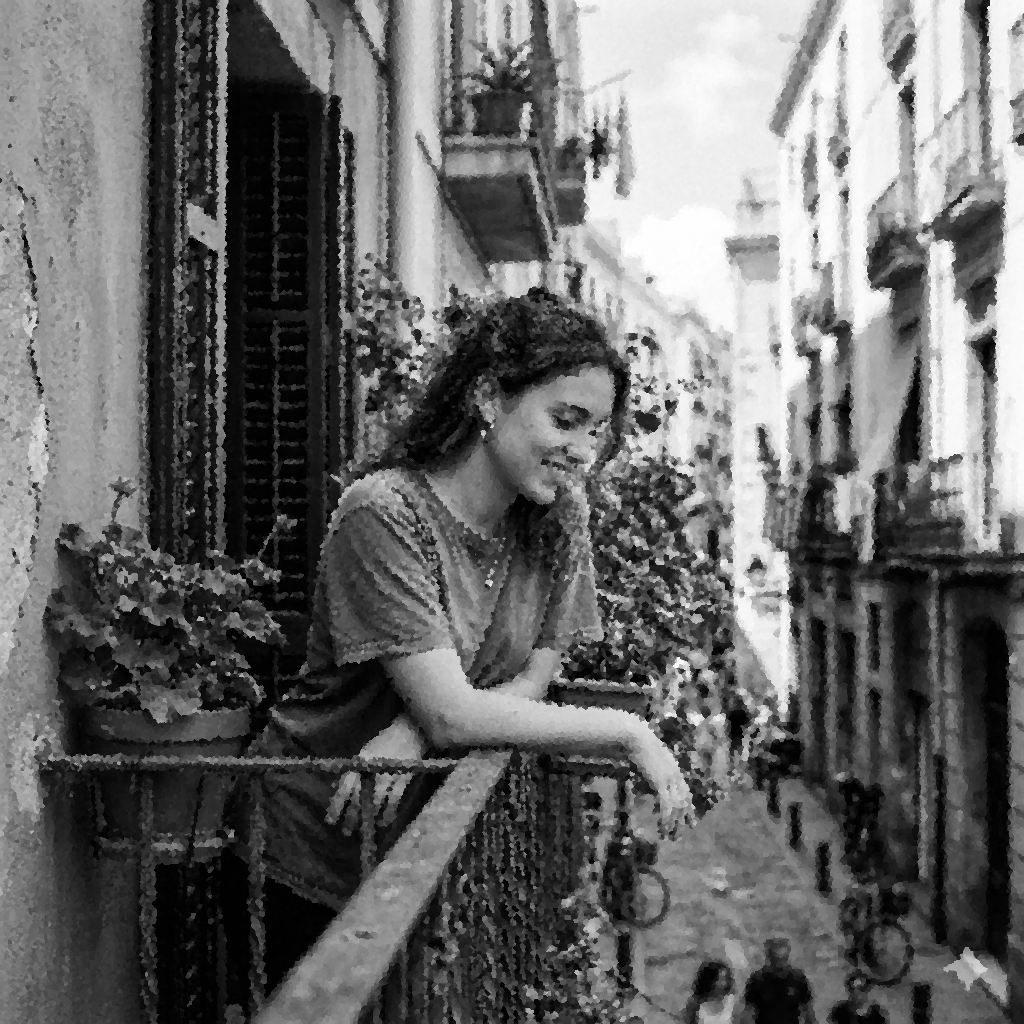
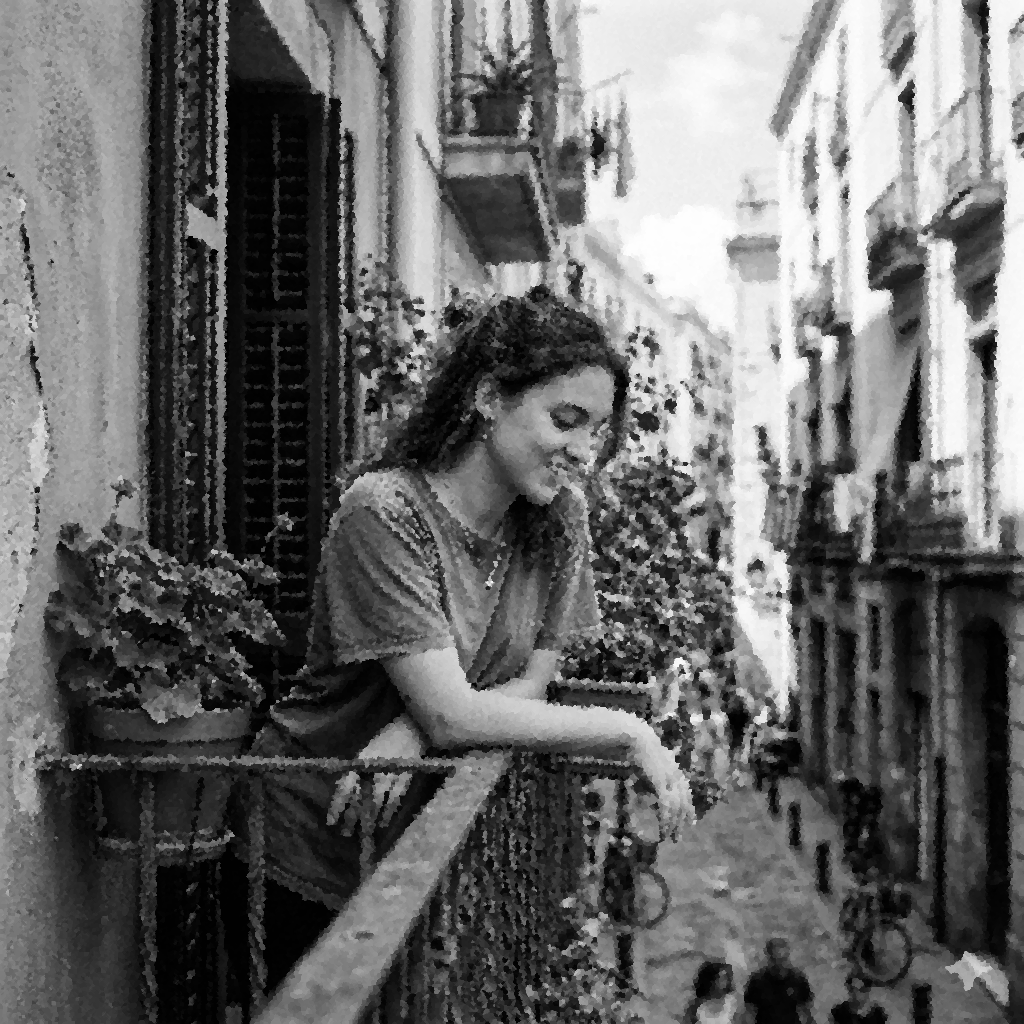
편차필터 PSNR : 23.23 SSIM : 0.7204 그룹필터 PSMR : 23.66 SSIM : 0.7381

diff --git a/Filtering_Methods.py b/Filtering_Methods.py
@@ -76,8 +76,8 @@ def median_filter(A):
 
     return img_filt.astype(np.uint8)
 
-def custom_corner_filter(A):
-    print("\n[알림] 제안 필터 1: 4방향 코너 그룹 분산 최소화 중간값 필터를 시작합니다...")
+def deviation_filter(A):
+    print("\n[알림] 제안 필터 1: 편차 필터(Deviation Filter)를 시작합니다...")
     m, n = A.shape
     img_filt = A.copy()
     route_count = 0
@@ -87,10 +87,10 @@ def custom_corner_filter(A):
         noise_mask = (img_filt == 0) | (img_filt == 255)
         
         if not np.any(noise_mask):
-            print(f"[Filter 1] 모든 노이즈 제거 완료. (총 가동된 루트 수: {route_count - 1})")
+            print(f"[Deviation Filter] 모든 노이즈 제거 완료. (총 가동된 루트 수: {route_count - 1})")
             break
             
-        print(f"[Filter 1] 진행 중: {route_count}번째 탐색 시작", flush=True)
+        print(f"[Deviation Filter] 진행 중: {route_count}번째 탐색 시작", flush=True)
         P = np.pad(img_filt, 1, mode='edge')
         windows = np.lib.stride_tricks.sliding_window_view(P, (3, 3)).reshape(m, n, 9)
         
@@ -101,81 +101,127 @@ def custom_corner_filter(A):
         groups[:, :, 2, :] = windows[:, :, [3, 6, 7]] # 좌하단 {4, 7, 8}
         groups[:, :, 3, :] = windows[:, :, [5, 7, 8]] # 우하단 {6, 8, 9}
         
-        sorted_groups = np.sort(groups, axis=3)
-        A_vals = sorted_groups[:, :, :, 0].astype(np.int32)
-        C_vals = sorted_groups[:, :, :, 2].astype(np.int32)
-        B_vals = sorted_groups[:, :, :, 1]
+        # 유효(정상) 픽셀 마스크
+        valid_mask = (groups > 0) & (groups < 255)
+        n_valid = np.sum(valid_mask, axis=3) # (M, N, 4)
         
-        # 편차 계산 (|A - C|와 완전히 동일함)
-        diffs = C_vals - A_vals
-        best_group_idx = np.argmin(diffs, axis=2)
+        # 노이즈를 NaN으로 치환하여 편차 계산
+        groups_float = groups.astype(np.float32)
+        groups_float[~valid_mask] = np.nan
+        
+        with np.errstate(all='ignore'):
+            g_max = np.nanmax(groups_float, axis=3)
+            g_min = np.nanmin(groups_float, axis=3)
+            # 노이즈가 없는 정상 픽셀들 사이의 편차 (C - A 와 동일)
+            variance = g_max - g_min 
+            
+        # 정상 픽셀이 0개인 그룹은 편차가 999 (최악의 점수)
+        variance = np.nan_to_num(variance, nan=999)
+        
+        # 페널티: 정상 픽셀 1개당 -1000점 (정상픽셀 수가 절대적 우선순위)
+        penalty = -n_valid * 1000 + variance
+        
+        best_group_idx = np.argmin(penalty, axis=2)
         
         idx_m, idx_n = np.indices((m, n))
-        best_medians = B_vals[idx_m, idx_n, best_group_idx]
+        best_groups = groups_float[idx_m, idx_n, best_group_idx]
+        
+        with np.errstate(all='ignore'):
+            best_medians = np.nanmedian(best_groups, axis=2)
+            
+        # 정상 픽셀 중앙값이 존재하는 경우만 업데이트
+        valid_medians_mask = ~np.isnan(best_medians)
+        update_mask = noise_mask & valid_medians_mask
         
         prev_img = img_filt.copy()
-        img_filt[noise_mask] = best_medians[noise_mask]
+        img_filt[update_mask] = best_medians[update_mask].astype(np.uint8)
         
         if np.array_equal(prev_img, img_filt) or route_count >= 30:
-            print(f"[Filter 1] 알림: 더 이상 변화가 없거나 최대 루프에 도달하여 {route_count}루트에서 종료합니다.")
+            print(f"[Deviation Filter] 알림: 더 이상 변화가 없거나 최대 루프에 도달하여 {route_count}루트에서 종료합니다.")
             break
             
     return img_filt.astype(np.uint8)
 
 
-def custom_direction_filter(A):
-    print("\n[알림] 제안 필터 2: 노이즈 최소 방향 탐색 중간값 필터를 시작합니다...")
+def group_filter(A):
+    print("\n[알림] 제안 필터 2: 업그레이드된 그룹 필터(Group Filter)를 시작합니다...")
     m, n = A.shape
     img_filt = A.copy()
     route_count = 0
+    max_k = 7 # 3x3 탐색 실패 시 5x5, 7x7까지 확장
     
     while True:
         route_count += 1
         noise_mask = (img_filt == 0) | (img_filt == 255)
         
         if not np.any(noise_mask):
-            print(f"[Filter 2] 모든 노이즈 제거 완료. (총 가동된 루트 수: {route_count - 1})")
+            print(f"[Group Filter] 모든 노이즈 제거 완료. (총 가동된 루트 수: {route_count - 1})")
             break
             
-        print(f"[Filter 2] 진행 중: {route_count}번째 탐색 시작", flush=True)
-        P = np.pad(img_filt, 1, mode='edge')
-        windows = np.lib.stride_tricks.sliding_window_view(P, (3, 3)).reshape(m, n, 9)
+        print(f"[Group Filter] 진행 중: {route_count}번째 탐색 시작 (적응형 윈도우 3~7 적용)", flush=True)
         
-        # 4방향 그룹 생성 (M, N, 4, 5)
-        groups = np.zeros((m, n, 4, 5), dtype=np.uint8)
-        groups[:, :, 0, :] = windows[:, :, [0, 1, 2, 3, 5]] # 상 {1, 2, 3, 4, 6}
-        groups[:, :, 1, :] = windows[:, :, [1, 2, 5, 7, 8]] # 우 {2, 3, 6, 8, 9}
-        groups[:, :, 2, :] = windows[:, :, [3, 5, 6, 7, 8]] # 하 {4, 6, 7, 8, 9}
-        groups[:, :, 3, :] = windows[:, :, [0, 1, 3, 6, 7]] # 좌 {1, 2, 4, 7, 8}
+        unresolved_mask = noise_mask.copy()
+        new_values = np.zeros_like(img_filt, dtype=np.float32)
+        new_values[:] = np.nan
         
-        # 방향별 노이즈 개수 계산
-        is_noise = (groups == 0) | (groups == 255)
-        noise_counts = np.sum(is_noise, axis=3)
-        
-        # 노이즈가 가장 적은 방향 선택
-        best_dir_idx = np.argmin(noise_counts, axis=2)
-        
-        idx_m, idx_n = np.indices((m, n))
-        best_groups = groups[idx_m, idx_n, best_dir_idx]
-        
-        # 선택된 그룹에서 노이즈 제외
-        best_groups_float = best_groups.astype(np.float32)
-        best_noise_mask = (best_groups_float == 0) | (best_groups_float == 255)
-        best_groups_float[best_noise_mask] = np.nan
-        
-        # 안전한 평균값 도출
-        with np.errstate(all='ignore'):
-            medians = np.nanmedian(best_groups_float, axis=2)
+        # 3, 5, 7로 반경을 확장해가며 풀리지 않은 노이즈 픽셀에만 적용
+        for k in range(3, max_k + 2, 2):
+            if not np.any(unresolved_mask):
+                break
+                
+            pad_w = k // 2
+            P = np.pad(img_filt, pad_w, mode='edge')
             
-        # 모든 5픽셀이 노이즈가 아닌 픽셀만 업데이트
-        valid_medians_mask = ~np.isnan(medians)
-        update_mask = noise_mask & valid_medians_mask
-        
+            windows = np.lib.stride_tricks.sliding_window_view(P, (k, k))
+            windows = windows.reshape(m, n, k*k)
+            
+            c = k // 2
+            idx_1d = np.arange(k*k)
+            i_idx = idx_1d // k
+            j_idx = idx_1d % k
+            
+            # WxW 모양의 4방향 그룹 마스킹 알고리즘
+            up_mask = (i_idx <= c) & (idx_1d != c*k + c)
+            right_mask = (j_idx >= c) & (idx_1d != c*k + c)
+            down_mask = (i_idx >= c) & (idx_1d != c*k + c)
+            left_mask = (j_idx <= c) & (idx_1d != c*k + c)
+            dir_masks = [up_mask, right_mask, down_mask, left_mask]
+            
+            # 자원 절약을 위해 풀리지 않은 픽셀들만 추출
+            unresolved_idx = np.nonzero(unresolved_mask)
+            u_windows = windows[unresolved_idx]
+            
+            best_dir_medians = np.zeros(len(u_windows), dtype=np.float32)
+            best_dir_medians[:] = np.nan
+            min_noise_counts = np.full(len(u_windows), 99999, dtype=np.int32)
+            
+            for d_mask in dir_masks:
+                d_wind = u_windows[:, d_mask]
+                d_is_noise = (d_wind == 0) | (d_wind == 255)
+                d_noise_count = np.sum(d_is_noise, axis=1)
+                
+                d_wind_float = d_wind.astype(np.float32)
+                d_wind_float[d_is_noise] = np.nan
+                with np.errstate(all='ignore'):
+                    d_med = np.nanmedian(d_wind_float, axis=1)
+                
+                # 노이즈가 더 적고 최소 1개의 정상 픽셀이 있는 방향 채택
+                better_mask = (d_noise_count < min_noise_counts) & ~np.isnan(d_med)
+                min_noise_counts[better_mask] = d_noise_count[better_mask]
+                best_dir_medians[better_mask] = d_med[better_mask]
+                
+            valid_found = ~np.isnan(best_dir_medians)
+            resolved_m = unresolved_idx[0][valid_found]
+            resolved_n = unresolved_idx[1][valid_found]
+            new_values[resolved_m, resolved_n] = best_dir_medians[valid_found]
+            unresolved_mask[resolved_m, resolved_n] = False
+            
+        update_mask = noise_mask & ~np.isnan(new_values)
         prev_img = img_filt.copy()
-        img_filt[update_mask] = medians[update_mask].astype(np.uint8)
+        img_filt[update_mask] = new_values[update_mask].astype(np.uint8)
         
         if np.array_equal(prev_img, img_filt) or route_count >= 30:
-            print(f"[Filter 2] 알림: 더 이상 변화가 없거나 최대 루프에 도달하여 {route_count}루트에서 종료합니다.")
+            print(f"[Group Filter] 알림: 변화가 없거나 최대 루프에 도달하여 {route_count}루트에서 종료합니다.")
             break
             
     return img_filt.astype(np.uint8)

diff --git a/Main_Run.py b/Main_Run.py
@@ -46,18 +46,18 @@ def main():
     # cv2.imwrite('Results/Base_Filtered_Image.png', Base_Filtered)
 
     # =======================================#
-    #   제안 필터 1: 코너 그룹 분산 최소화 중간값 필터
+    #   제안 필터 1: 편차 필터 (Deviation Filter)
     # =======================================#
-    Filter1_Result = custom_corner_filter(SPnoise_img)
-    cv2.imshow('Filter 1 (Corner Group) Result', Filter1_Result)
+    Filter1_Result = deviation_filter(SPnoise_img)
+    cv2.imshow('Filter 1 (Deviation Filter) Result', Filter1_Result)
     cv2.waitKey(0)
     cv2.imwrite('Results/Filter1_Result.png', Filter1_Result)
 
     # =======================================#
-    #   제안 필터 2: 노이즈 최소 방향 탐색 중간값 필터
+    #   제안 필터 2: 그룹 필터 (Group Filter)
     # =======================================#
-    Filter2_Result = custom_direction_filter(SPnoise_img)
-    cv2.imshow('Filter 2 (Min Noise Dir) Result', Filter2_Result)
+    Filter2_Result = group_filter(SPnoise_img)
+    cv2.imshow('Filter 2 (Group Filter) Result', Filter2_Result)
     cv2.waitKey(0)
     cv2.imwrite('Results/Filter2_Result.png', Filter2_Result)
 

diff --git a/test_headless.py b/test_headless.py
@@ -17,20 +17,20 @@ def main():
     print("1. Running Base Filter...")
     Base_Filtered = myImFilter(SPnoise_img, param="mean")
     
-    print("2. Running Filter 1 (Corner Group)...")
+    print("2. Running Deviation Filter...")
     try:
-        Filter1_Result = custom_corner_filter(SPnoise_img)
-        print("Filter 1 succeeded!")
+        Filter1_Result = deviation_filter(SPnoise_img)
+        print("Deviation Filter succeeded!")
     except Exception as e:
-        print(f"Filter 1 failed: {e}")
+        print(f"Deviation Filter failed: {e}")
         return
         
-    print("3. Running Filter 2 (Min Noise Dir)...")
+    print("3. Running Group Filter...")
     try:
-        Filter2_Result = custom_direction_filter(SPnoise_img)
-        print("Filter 2 succeeded!")
+        Filter2_Result = group_filter(SPnoise_img)
+        print("Group Filter succeeded!")
     except Exception as e:
-        print(f"Filter 2 failed: {e}")
+        print(f"Group Filter failed: {e}")
         return
 
     print("Headless test completed successfully.")

diff --git a/tester.py b/tester.py
@@ -41,8 +41,8 @@ def run_test(source_img, noise_img, f1_filtered, f2_filtered):
     show_resized("1. Original Image", source_img)
     show_resized("2. Noisy Image", noise_img)
     # show_resized("3. Base Filter Result", base_filtered)
-    show_resized("3. Filter 1 (Corner Group) Result", f1_filtered)
-    show_resized("4. Filter 2 (Min Noise Dir) Result", f2_filtered)
+    show_resized("3. Deviation Filter (편차필터)", f1_filtered)
+    show_resized("4. Group Filter (그룹필터)", f2_filtered)
     
     # 노이즈가 추가된 직후의 상태 측정
     psnr_noisy, ssim_noisy = calculate_metrics(source_img, noise_img)
@@ -54,8 +54,8 @@ def run_test(source_img, noise_img, f1_filtered, f2_filtered):
     
     filters_data = [
         # ("Base Filter", base_filtered),
-        ("Filter 1 (Corner Group)", f1_filtered),
-        ("Filter 2 (Min Noise Dir)", f2_filtered)
+        ("Deviation Filter (편차필터)", f1_filtered),
+        ("Group Filter (그룹필터)", f2_filtered)
     ]
     
     for name, img in filters_data:
